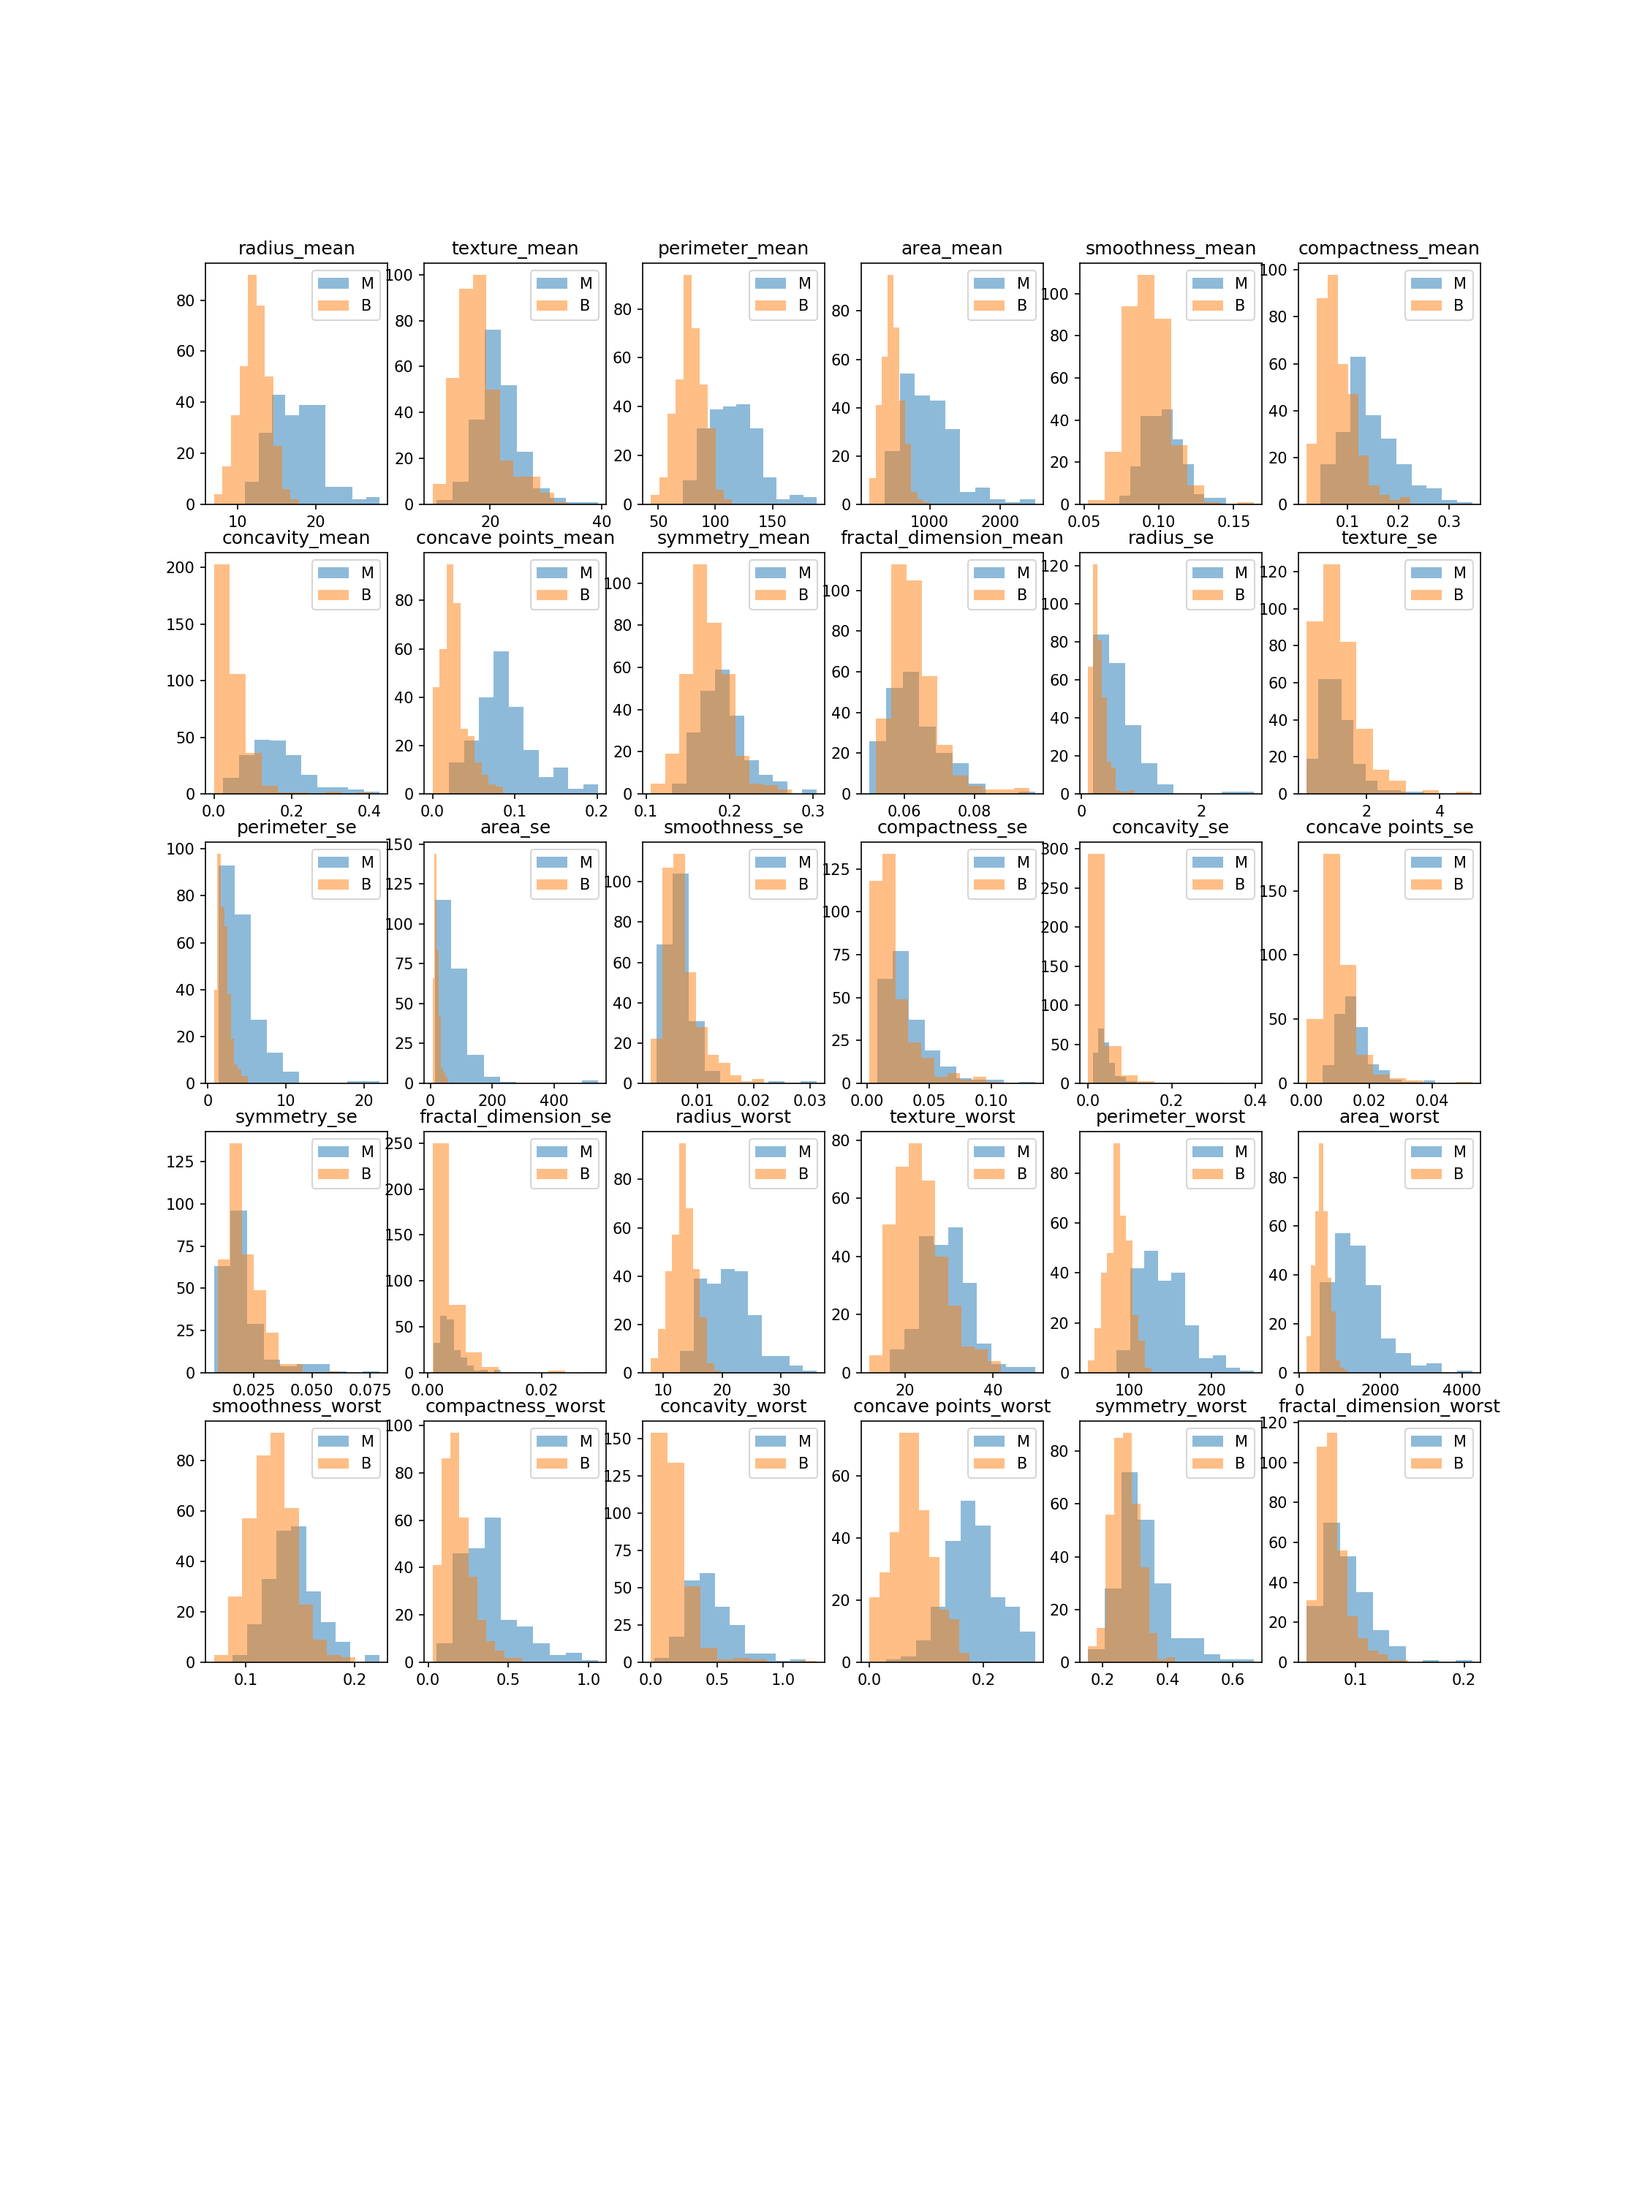
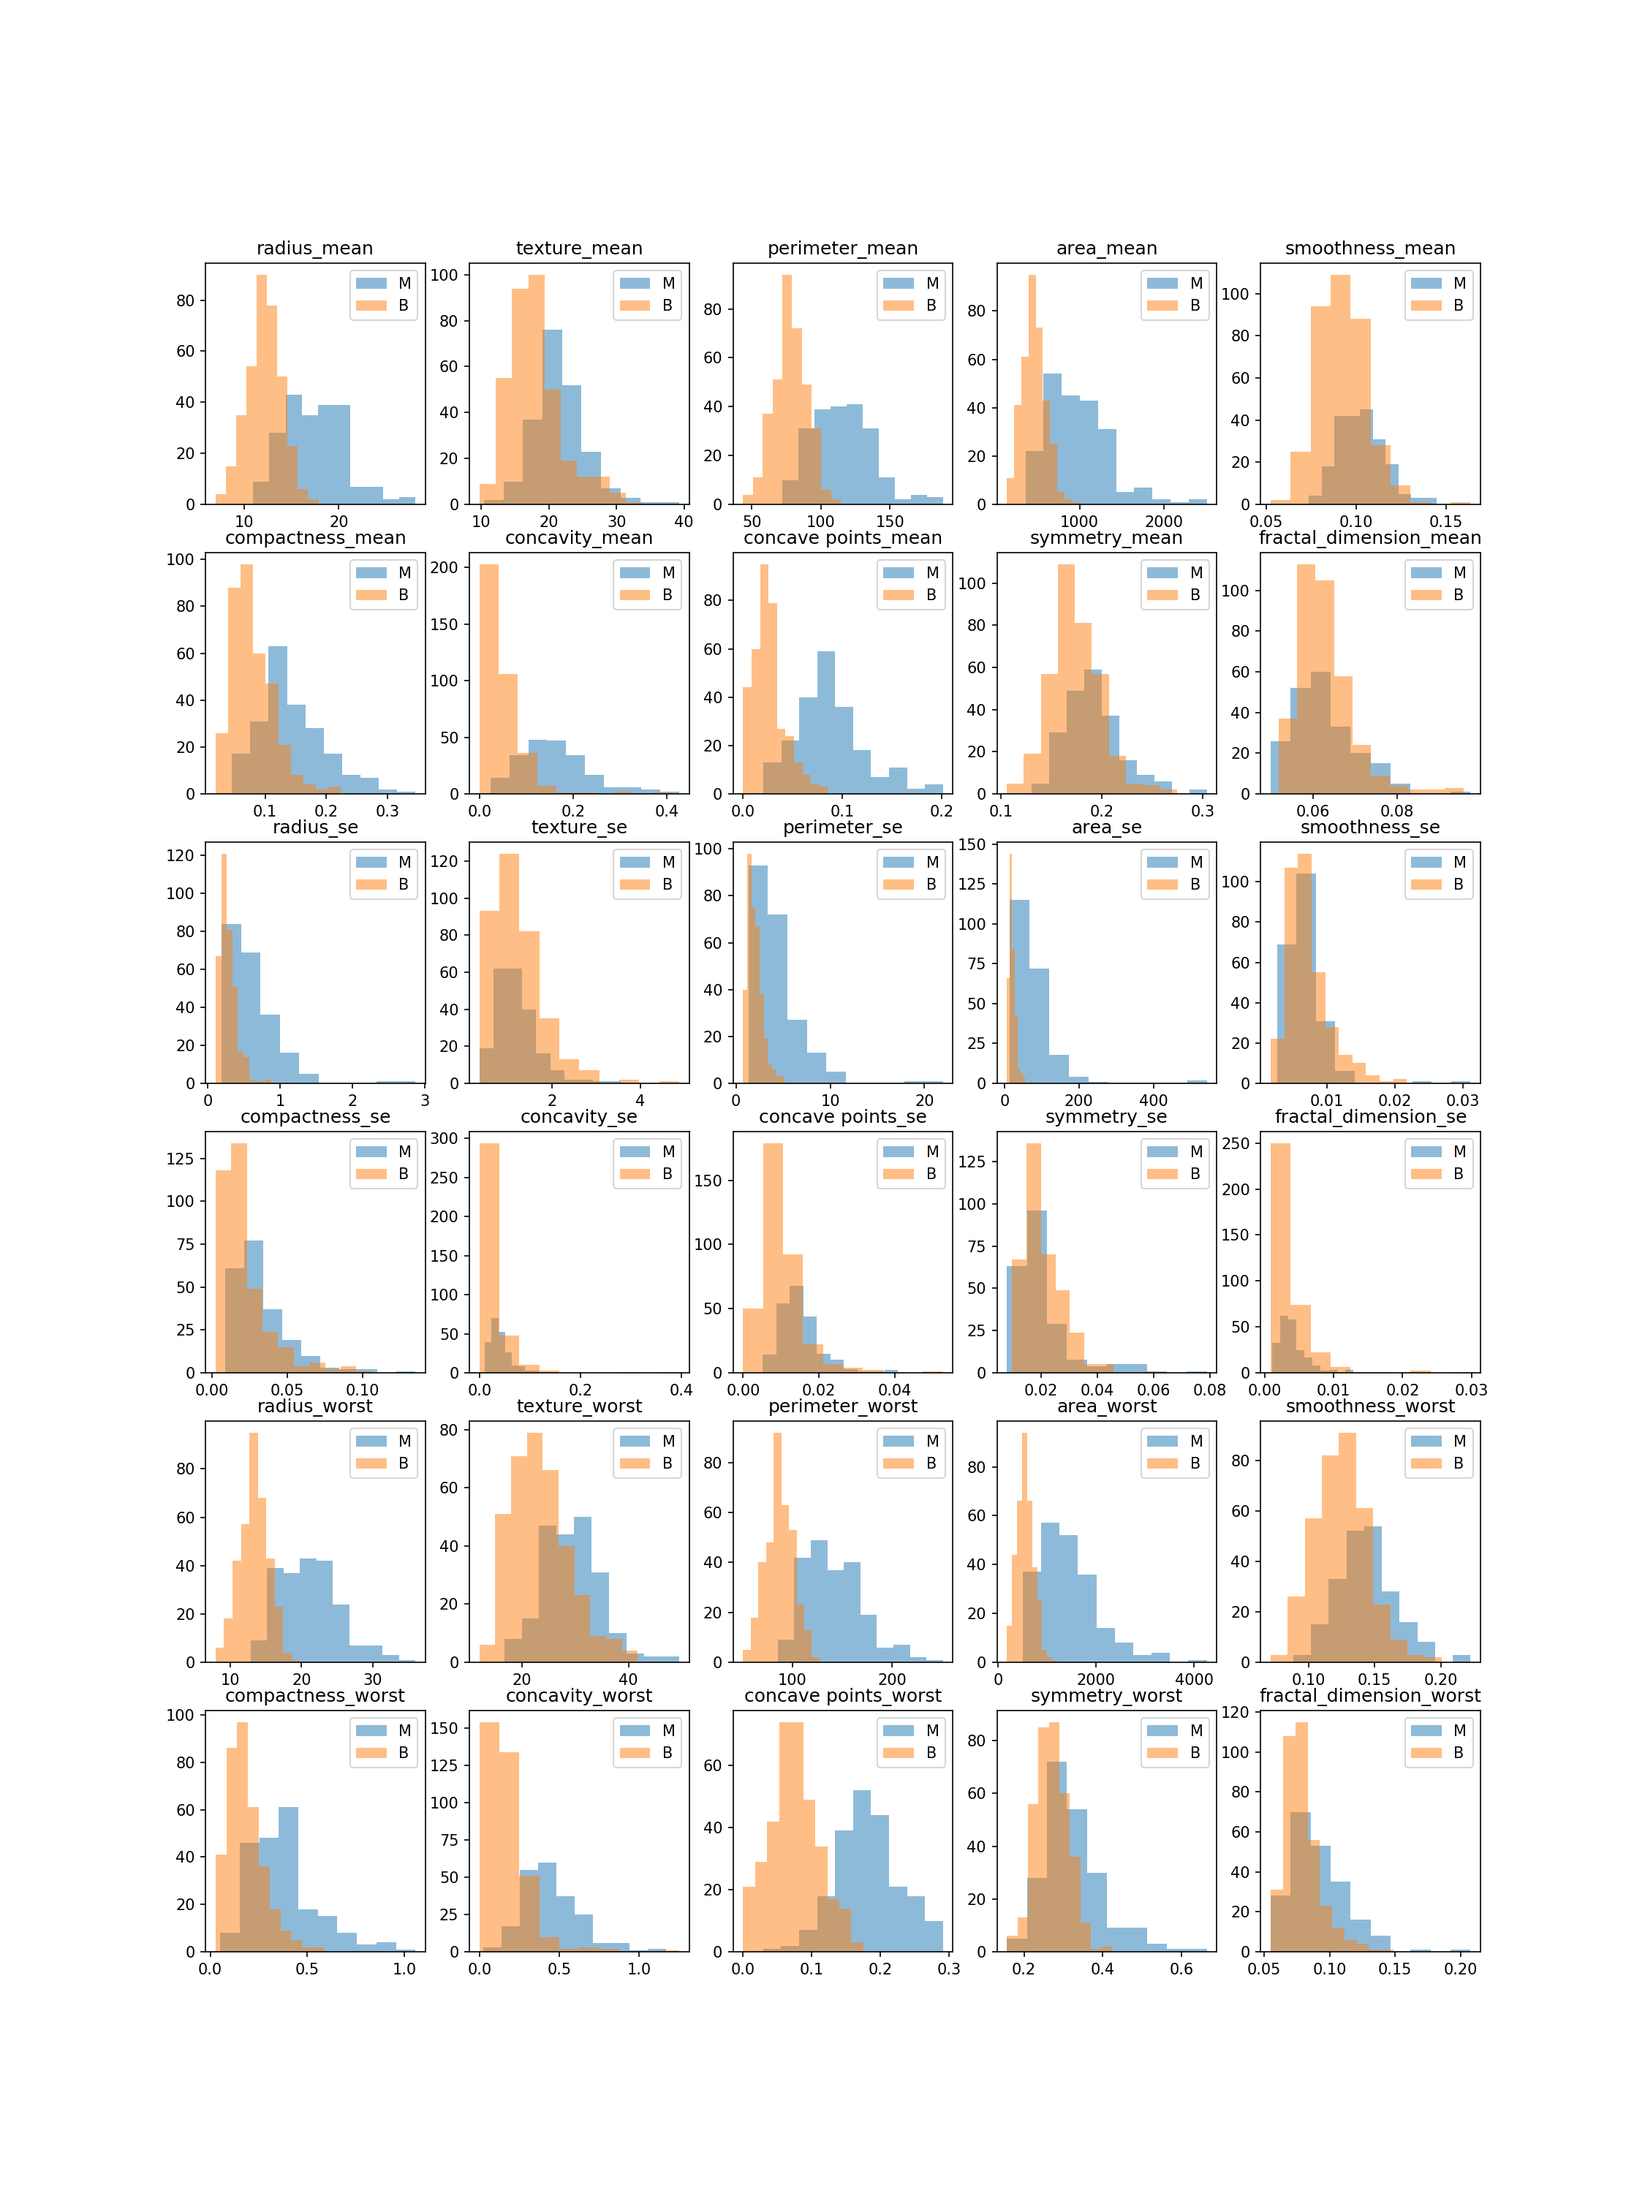
another commit
fixing some stuff

Changed region(s): [[0.0933, 0.093, 0.9022, 0.899]]

diff --git a/edautils.py b/edautils.py
@@ -1,10 +1,19 @@
 import pandas as pd
 import numpy as np 
 import matplotlib.pyplot as plt 
+import math
 
-def plot_categorical(df):
+def plot_categorical(df, size_inches=(5, 7)):
+    """Creates a recurrent attention based model
+    Args:
+        df (dataframe): dataframe containing data to be ploted
+        size_inches (tuple): plot size in inches
+        num_cols: number of columns in plot
+    Returns:
+        fig, ax: plot
+    """
     fig, ax = plt.subplots()
-    fig.set_size_inches((5, 7))
+    fig.set_size_inches(size_inches)
     for i, column in enumerate(df.select_dtypes(include=['O'])):
         plt.subplot(1, 1, i + 1)
         df[column].value_counts().plot.barh()
@@ -12,13 +21,21 @@ def plot_categorical(df):
     return fig, ax
     
 
-def plot_numerical(df):
-    #NUM_FEATURES = df.select_dtypes(include=['float64']).shape[1]
-
+def plot_numerical(df, size_inches=(15, 20), num_cols = 5):
+    """Creates a recurrent attention based model
+    Args:
+        df (dataframe): dataframe containing data to be ploted
+        size_inches (tuple): plot size in inches
+        num_cols: number of columns in plot
+    Returns:
+        fig, ax: plot
+    """
+    num_features = df.select_dtypes(include=['float64']).shape[1]
+    num_rows = math.ceil(num_features / num_cols)
     fig, ax = plt.subplots()
-    fig.set_size_inches((15, 20))
+    fig.set_size_inches(size_inches)
     for i, column in enumerate(df.select_dtypes(include=['float64'])):
-        plt.subplot(6, 6, i + 1)        
+        plt.subplot(num_rows, num_cols, i + 1)        
         plt.hist(df.loc[df['diagnosis'] == 'M',column], alpha = 0.5, label = 'M')
         plt.hist(df.loc[df['diagnosis'] == 'B',column], alpha = 0.5, label = 'B')
         plt.title(column)

diff --git a/example.py b/example.py
@@ -9,11 +9,11 @@ df = pd.read_csv('data/data-breast-cancer.csv')
 
 #%%
 fig, ax = edautils.plot_numerical(df)
-fig.savefig("pnt/numerical_cancer.png", dpi=150)
+fig.savefig("png/numerical_example1.png", dpi=150)
 plt.close(fig) 
 
 
 #%%
 fig, ax = edautils.plot_categorical(df)
-fig.savefig("png/categorical_.png", dpi=150)
+fig.savefig("png/categorical_example1.png", dpi=150)
 plt.close(fig) 
